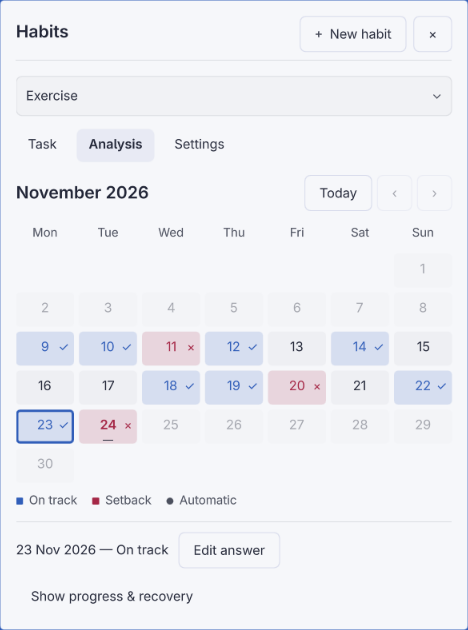
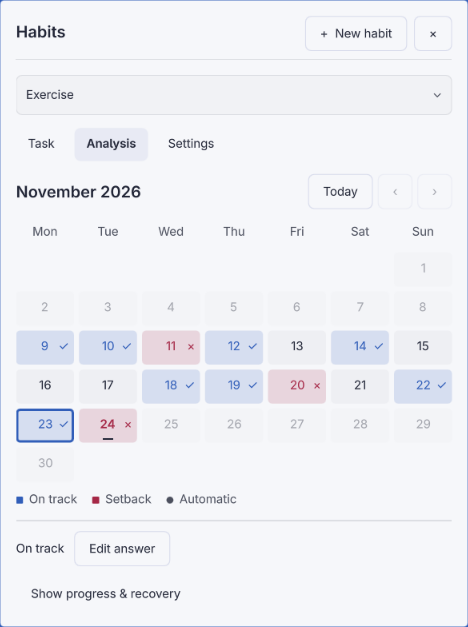
Remove duplicate habit and date labels

diff --git a/HabitPanel.qml b/HabitPanel.qml
@@ -53,10 +53,10 @@ Panel {
   readonly property string fontFamily: Qt.fontFamilies().indexOf("Adwaita Sans") >= 0 ? "Adwaita Sans" : "sans-serif"
   readonly property real typeScale: Math.max(1, Style.fontScale)
   readonly property int secondarySize: typeSize(12)
-  readonly property int bodySize: typeSize(13)
-  readonly property int answerSize: typeSize(14)
-  readonly property int headingSize: typeSize(17)
-  readonly property int displaySize: typeSize(20)
+  readonly property int bodySize: typeSize(12)
+  readonly property int answerSize: typeSize(13)
+  readonly property int headingSize: typeSize(16)
+  readonly property int displaySize: typeSize(18)
   readonly property var locale: Qt.locale(Commons.I18n.formatLocale)
 
   Commons.Translations {
@@ -277,9 +277,11 @@ Panel {
     content: Item {
       id: content
       property alias scrollArea: detailScroll
-      readonly property bool wide: width >= Math.max(500, Style.space(580))
+      readonly property bool multipleHabits: root.trackerState.habits.length > 1
+      readonly property bool showSidebar: multipleHabits && !root.creating && width >= Math.max(500, Style.space(580))
       anchors.fill: parent
-      implicitHeight: Math.max(305, bodyTop.y + detailColumn.implicitHeight)
+      implicitHeight: Math.max(245, bodyTop.y + Math.max(detailColumn.implicitHeight,
+        showSidebar ? Math.min(habitList.implicitHeight, Style.space(220)) : 0))
       focus: true
       Keys.onEscapePressed: {
         if (root.datePickerOpen) root.datePickerOpen = false
@@ -292,11 +294,16 @@ Panel {
         width: parent.width
         height: Math.max(headerActions.implicitHeight, Style.space(40))
         Label {
+          objectName: "popupTitle"
           anchors.left: parent.left
+          anchors.right: headerActions.left
+          anchors.rightMargin: Style.space(12)
           anchors.verticalCenter: parent.verticalCenter
-          text: root.t("title")
+          text: root.creating ? root.t("newHabit")
+            : root.habit && !content.multipleHabits ? root.habit.name : root.t("title")
           font.pixelSize: root.headingSize
           font.weight: Font.DemiBold
+          elide: Text.ElideRight
         }
         Row {
           id: headerActions
@@ -305,6 +312,7 @@ Panel {
           Action {
             text: root.t("newHabit")
             iconText: "+"
+            visible: !root.creating
             onClicked: root.beginEdit(null)
           }
           Action { text: "×"; objectName: "closeHabits"; Accessible.name: root.t("close"); onClicked: root.close() }
@@ -322,22 +330,14 @@ Panel {
       // stack of statistic cards competing with the selected habit.
       Item {
         id: sidebar
-        visible: content.wide
+        visible: content.showSidebar
         anchors.top: bodyTop.top
         anchors.bottom: parent.bottom
         anchors.left: parent.left
         width: Math.max(114, Style.space(132))
-        Label {
-          id: sidebarTitle
-          text: root.t("yourHabits")
-          color: root.dim
-          font.pixelSize: root.secondarySize
-          font.weight: Font.DemiBold
-        }
         Flickable {
           objectName: "habitsScroll"
-          anchors.top: sidebarTitle.bottom
-          anchors.topMargin: Style.space(10)
+          anchors.top: parent.top
           anchors.bottom: parent.bottom
           width: parent.width
           contentWidth: width
@@ -357,7 +357,7 @@ Panel {
                 height: Math.max(40, root.bodySize + Style.space(20))
                 text: ""
                 Accessible.name: root.t("habitStatus").arg(modelData.name).arg(root.t(root.todayStatus(modelData)))
-                 selected: root.habit && root.habit.id === modelData.id && !root.creating
+                 selected: root.habit && root.habit.id === modelData.id
                 bordered: false
                 onClicked: root.chooseHabit(modelData.id)
                 Column {
@@ -388,7 +388,7 @@ Panel {
         }
       }
       Rectangle {
-        visible: content.wide
+        visible: content.showSidebar
         anchors.left: sidebar.right
         anchors.leftMargin: Style.space(12)
         anchors.top: sidebar.top
@@ -401,8 +401,8 @@ Panel {
         id: detailScroll
         objectName: "habitsScroll"
         anchors.top: bodyTop.top
-        anchors.left: content.wide ? sidebar.right : parent.left
-        anchors.leftMargin: content.wide ? Style.space(28) : 0
+        anchors.left: content.showSidebar ? sidebar.right : parent.left
+        anchors.leftMargin: content.showSidebar ? Style.space(28) : 0
         anchors.right: parent.right
         anchors.bottom: parent.bottom
         contentWidth: width
@@ -427,11 +427,9 @@ Panel {
           Column {
             visible: !root.habit && !root.editing && root.hostWidget && root.hostWidget.loaded
             width: parent.width
-            spacing: Style.space(20)
-            Item { width: 1; height: Style.space(70) }
-            Label { width: parent.width; text: root.t("emptyTitle"); font.pixelSize: root.displaySize; font.weight: Font.DemiBold; wrapMode: Text.Wrap }
+            spacing: Style.space(10)
+            Label { width: parent.width; text: root.t("emptyTitle"); font.pixelSize: root.headingSize; font.weight: Font.DemiBold; wrapMode: Text.Wrap }
             Label { width: parent.width; text: root.t("emptyHint"); color: root.dim; wrapMode: Text.Wrap }
-            Action { text: root.t("createFirst"); onClicked: root.beginEdit(null) }
           }
           Label {
             visible: !root.habit && !root.editing && root.hostWidget && !root.hostWidget.loaded && text !== ""
@@ -447,7 +445,7 @@ Panel {
             QQC.ComboBox {
               id: habitPicker
               objectName: "habitPicker"
-              visible: !content.wide
+              visible: content.multipleHabits && !content.showSidebar
               width: parent.width
               model: root.trackerState.habits
               textRole: "name"
@@ -480,24 +478,6 @@ Panel {
                   verticalAlignment: Text.AlignVCenter
                 }
                 background: Rectangle { color: parent.highlighted ? root.tint(root.accent, 0.18) : Commons.Color.background }
-              }
-            }
-            Item {
-              visible: content.wide
-              width: parent.width
-              height: habitHeading.implicitHeight
-              Column {
-                id: habitHeading
-                anchors.left: parent.left
-                anchors.right: parent.right
-                spacing: Style.space(9)
-                Label {
-                  width: parent.width
-                  text: root.habit ? root.habit.name : ""
-                  wrapMode: Text.Wrap
-                  font.pixelSize: root.headingSize
-                  font.weight: Font.DemiBold
-                }
               }
             }
             Flow {
@@ -555,7 +535,12 @@ Panel {
                   id: monthControls
                   anchors.right: parent.right
                   spacing: Style.space(6)
-                  Action { text: root.t("today"); onClicked: root.inspectDay(root.todayKey) }
+                  Action {
+                    objectName: "calendarToday"
+                    text: root.t("today")
+                    visible: root.selectedDay !== root.todayKey
+                    onClicked: { root.inspectDay(root.todayKey); calendar.forceActiveFocus() }
+                  }
                   Action { text: Commons.I18n.rightToLeft ? "›" : "‹"; Accessible.name: root.t("previousMonth"); enabled: root.canMoveMonth(-1); onClicked: root.moveMonth(-1) }
                   Action { text: Commons.I18n.rightToLeft ? "‹" : "›"; Accessible.name: root.t("nextMonth"); enabled: root.canMoveMonth(1); onClicked: root.moveMonth(1) }
                 }
@@ -596,7 +581,7 @@ Panel {
                     root.inspectDay(root.todayKey)
                     event.accepted = true
                   } else if (event.key === Qt.Key_Return || event.key === Qt.Key_Enter) {
-                     if (root.record.source !== "before" && root.record.source !== "future") analysisCalendar.editDay()
+                    if (root.record.source !== "before" && root.record.source !== "future") analysisCalendar.editDay()
                     event.accepted = true
                   }
                 }
@@ -674,11 +659,13 @@ Panel {
                 width: parent.width
                 spacing: Style.space(12)
                 Label {
-                  text: root.t("selectedDay").arg(root.displayDate(root.selectedDay)).arg(root.dayStatus())
+                  objectName: "analysisDayStatus"
+                  text: root.dayStatus()
                   width: Math.min(parent.width, implicitWidth)
                   height: Math.max(implicitHeight, editAnswer.implicitHeight)
                   verticalAlignment: Text.AlignVCenter
                   wrapMode: Text.Wrap
+                  Accessible.name: root.t("calendarDay").arg(root.displayDate(root.selectedDay)).arg(text)
                 }
                 Action {
                   id: editAnswer
@@ -706,8 +693,8 @@ Panel {
               width: parent.width
               spacing: Math.max(16, Style.space(19))
               PanelSeparator { foreground: root.foreground }
-              Label { id: progressHeading; text: root.t("progress"); font.weight: Font.DemiBold; font.pixelSize: root.headingSize }
               Row {
+                id: progressHeading
                 width: parent.width
                 spacing: Style.space(14)
                 Stat { width: (parent.width - parent.spacing * 2) / 3; caption: root.t("currentStreak"); value: root.t("streakValue").arg(root.n(root.stats ? root.stats.currentStreak : 0)) }
@@ -764,8 +751,6 @@ Panel {
                   wrapMode: Text.Wrap
                 }
               }
-              PanelSeparator { foreground: root.foreground }
-              Label { width: parent.width; text: root.t("analysisHelp"); color: root.dim; wrapMode: Text.Wrap; font.pixelSize: root.secondarySize }
             }
           }
 
@@ -775,7 +760,6 @@ Panel {
             visible: root.editing
             width: parent.width
             spacing: Math.max(17, Style.space(20))
-            Label { visible: root.creating; text: root.t("newHabit"); font.pixelSize: root.headingSize; font.weight: Font.DemiBold }
             FieldGroup {
               width: parent.width
               label: root.t("habitName")
@@ -966,21 +950,20 @@ Panel {
     }
     PanelSeparator { foreground: root.foreground }
     Flow {
+      objectName: "pastDateContext"
+      visible: root.selectedDay !== root.todayKey
       width: parent.width
       spacing: Style.space(12)
       Label {
         height: Math.max(implicitHeight, backToday.visible ? backToday.implicitHeight : 0)
         verticalAlignment: Text.AlignVCenter
-        text: root.selectedDay === root.todayKey
-          ? root.t("todayDate").arg(root.displayDate(root.selectedDay))
-          : root.displayDate(root.selectedDay)
+        text: root.displayDate(root.selectedDay)
         color: root.dim
         font.pixelSize: root.secondarySize
       }
       Action {
         id: backToday
         objectName: "backToToday"
-        visible: root.selectedDay !== root.todayKey
         text: root.t("backToday")
         bordered: false
         onClicked: root.inspectDay(root.todayKey)
@@ -1028,10 +1011,11 @@ Panel {
       }
     }
     Flow {
+      visible: root.record.value !== ""
       width: parent.width
       spacing: Style.space(12)
       Label {
-        text: root.record.value ? root.dayStatus() : root.t("awaitingAnswer")
+        text: root.dayStatus()
         width: Math.min(parent.width, implicitWidth)
         height: Math.max(implicitHeight, clearAnswer.implicitHeight)
         verticalAlignment: Text.AlignVCenter

diff --git a/docs/release.md b/docs/release.md
@@ -1,4 +1,8 @@
-# 1.3.3 — Smaller type
+# 1.3.4 — Less repetition
+
+Habit names appear in one place: the sidebar, the narrow-layout picker, or the title for a single habit. Task shows a full date only when editing an earlier answer. Analysis relies on the highlighted calendar day instead of printing its full date again. Type is slightly smaller; the Yes/No hit areas are unchanged.
+
+## 1.3.3 — Smaller type
 
 Base text sizes are now 12 px for secondary labels, 13 px for body and navigation, 14 px for Yes/No, 17 px for headings, and 20 px for the question and key numbers. The typeface, popup width, and Yes/No hit areas are unchanged.
 
